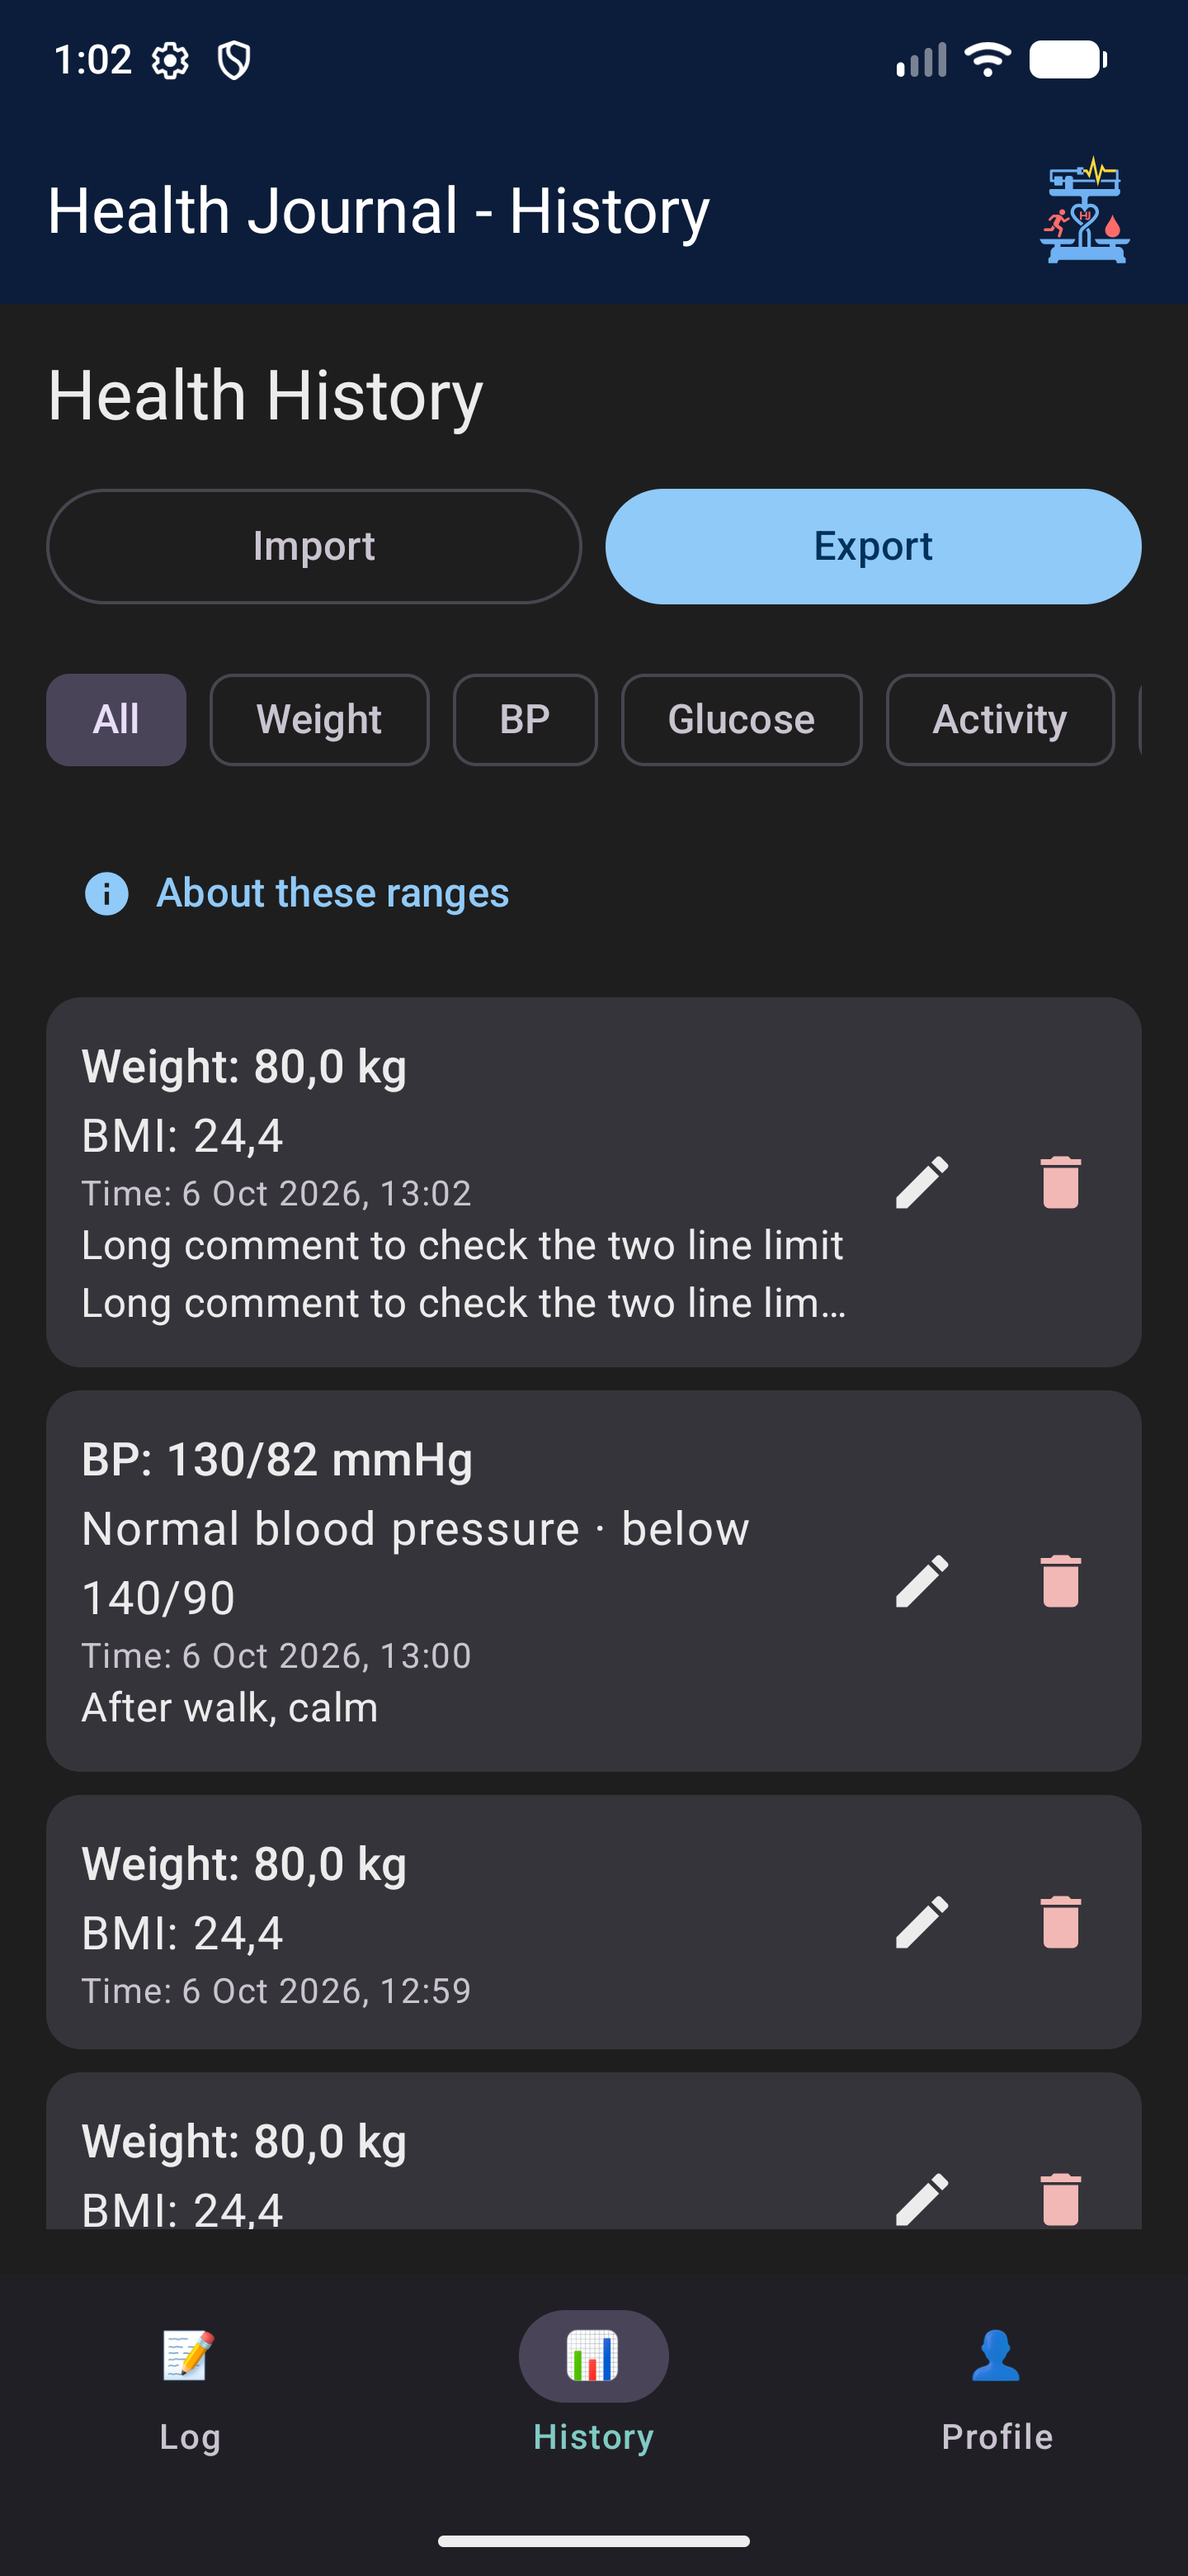
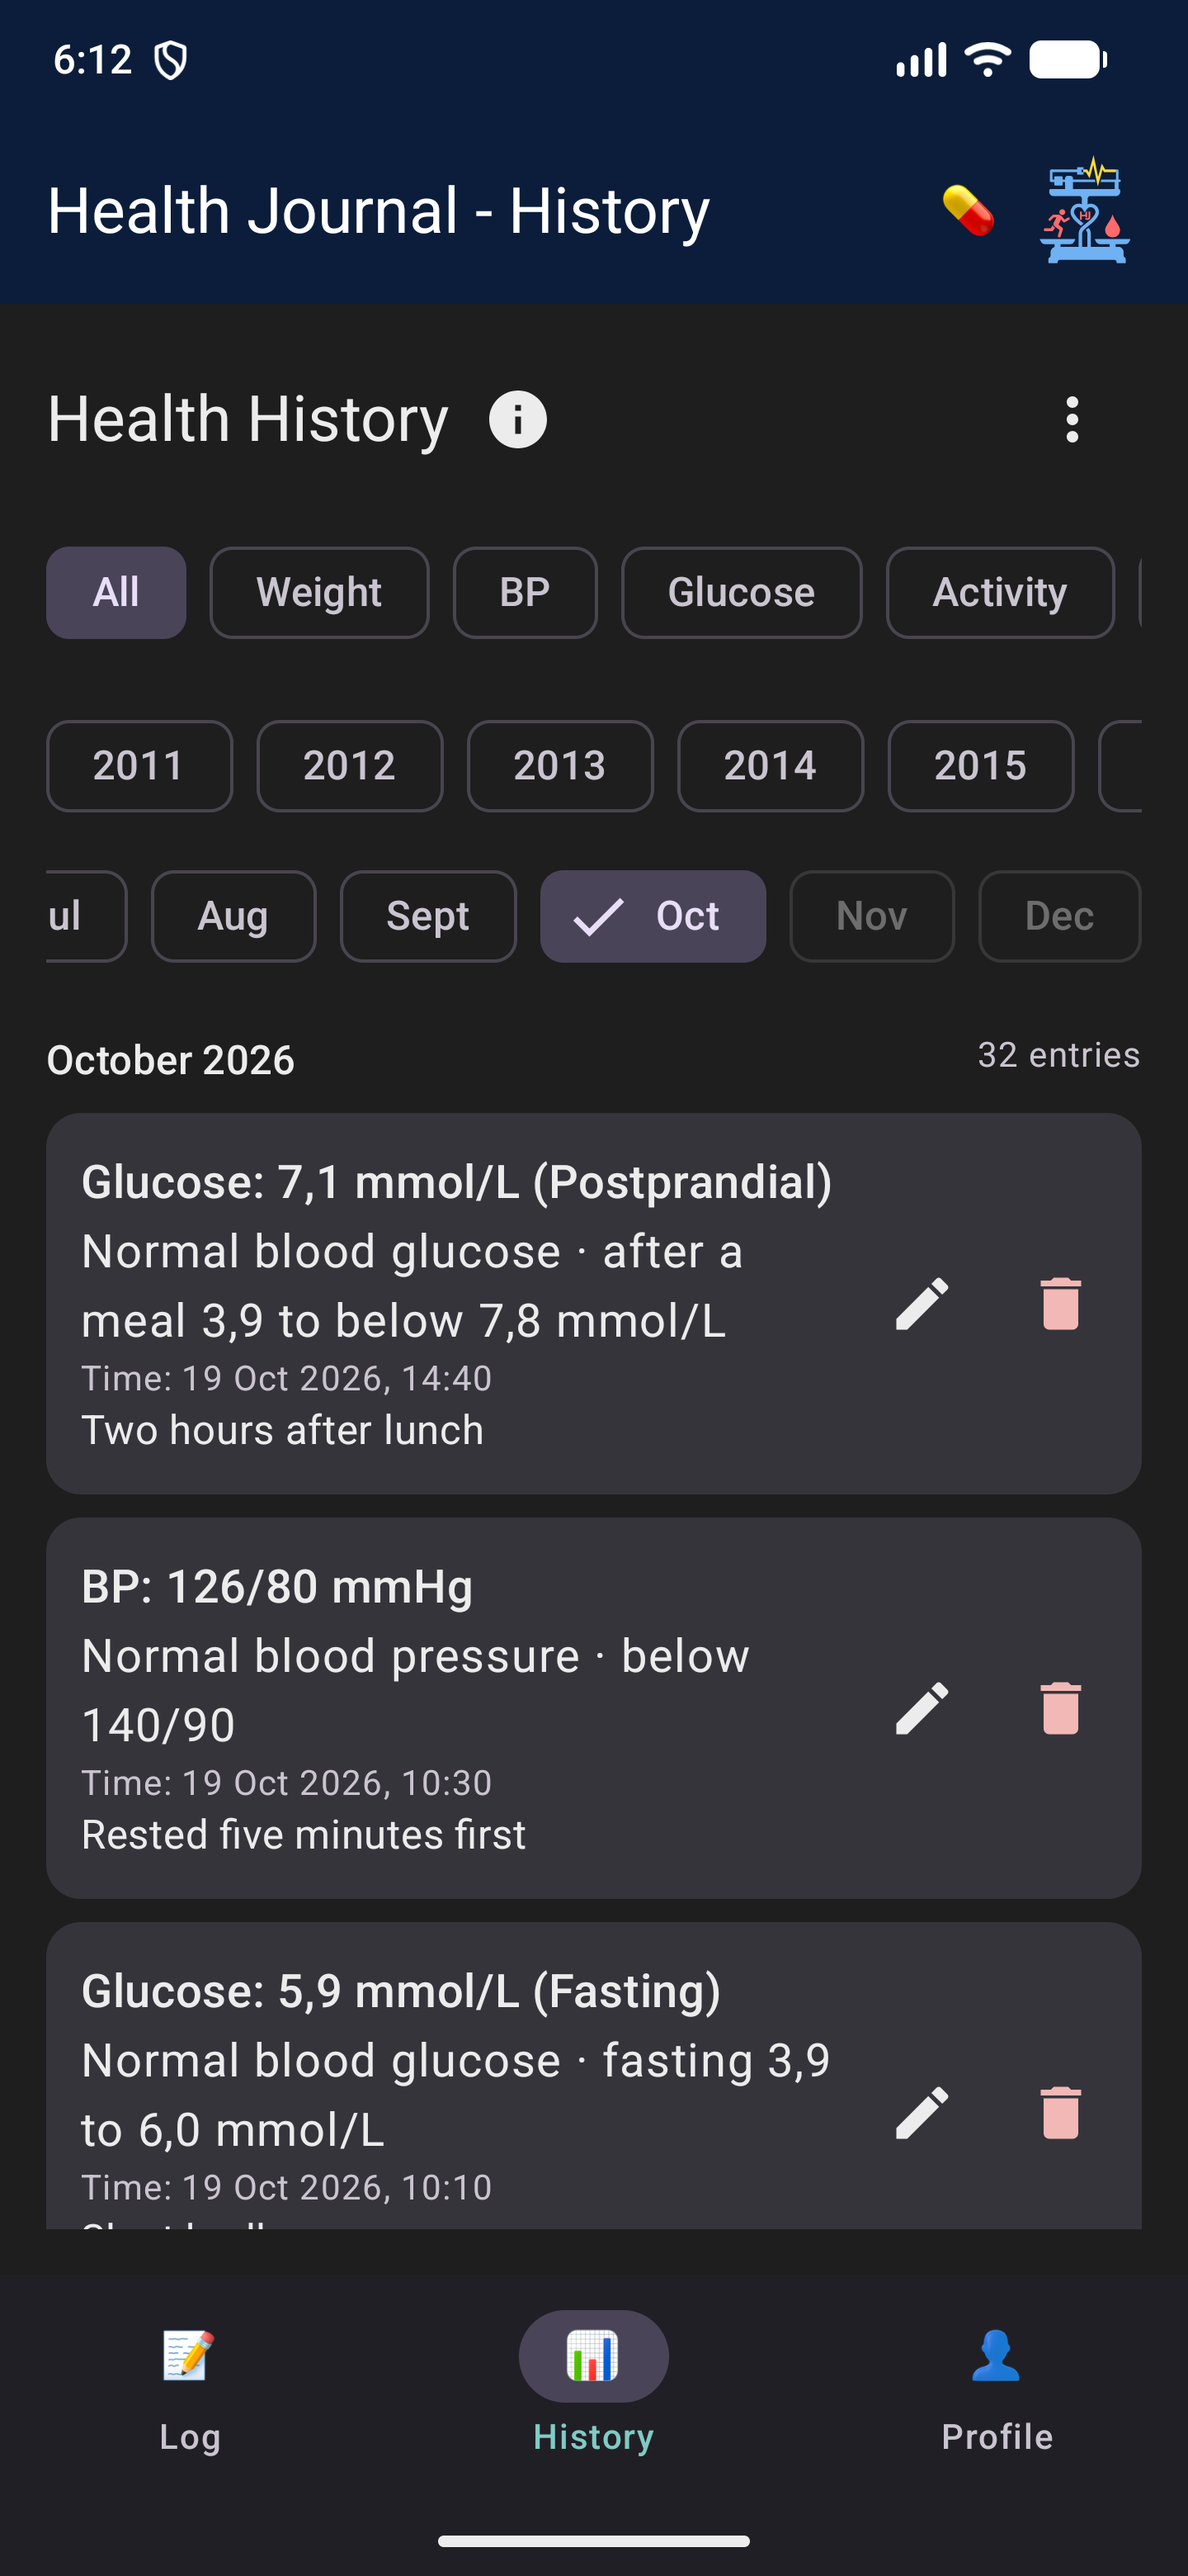
chore: release 1.5.7

diff --git a/README.md b/README.md
@@ -23,7 +23,7 @@ An offline-first, privacy-focused Android health logging application built with 
 
 You can download the ready-to-install Android APK directly from GitHub:
 
-👉 **[Download Latest APK (v1.5.6)](https://github.com/mannetje/health_journal/releases/latest)**  
+👉 **[Download Latest APK (v1.5.7)](https://github.com/mannetje/health_journal/releases/latest)**  
 See the [CHANGELOG](CHANGELOG.md) for what changed in each release.
 
 ---
@@ -34,21 +34,21 @@ See the [CHANGELOG](CHANGELOG.md) for what changed in each release.
 
 | Log | History | Profile |
 |---|---|---|
-| <img src="docs/screenshots/light-log.png" width="250" alt="Log screen with a neutral blood pressure range label, light theme"> | <img src="docs/screenshots/light-history.png" width="250" alt="History list with name and range labels, light theme"> | <img src="docs/screenshots/light-profile.png" width="250" alt="Profile screen, light theme"> |
+| <img src="docs/screenshots/light-log.png" width="250" alt="Log screen with a neutral blood pressure range label, light theme"> | <img src="docs/screenshots/light-history.png" width="250" alt="History list with name, range labels and comments, light theme"> | <img src="docs/screenshots/light-profile.png" width="250" alt="Profile screen, light theme"> |
 
 | Weight trend | Blood pressure trend | Glucose trend |
 |---|---|---|
-| <img src="docs/screenshots/light-weight.png" width="250" alt="Weight trend chart with moving average, light theme"> | <img src="docs/screenshots/light-blood-pressure.png" width="250" alt="Blood pressure trend with average label and distribution by band, light theme"> | <img src="docs/screenshots/light-glucose.png" width="250" alt="Glucose trend chart with time-in-range bars, light theme"> |
+| <img src="docs/screenshots/light-weight.png" width="250" alt="Weight trend chart with a dot per entry and moving average, light theme"> | <img src="docs/screenshots/light-blood-pressure.png" width="250" alt="Blood pressure trend with dots per reading, average label and distribution by band, light theme"> | <img src="docs/screenshots/light-glucose.png" width="250" alt="Glucose trend with fasting and post-meal lines and NHG limit lines, light theme"> |
 
 **Dark theme**
 
 | Log | History | Profile |
 |---|---|---|
-| <img src="docs/screenshots/dark-log.png" width="250" alt="Log screen with a neutral blood pressure range label, dark theme"> | <img src="docs/screenshots/dark-history.png" width="250" alt="History list with name and range labels, dark theme"> | <img src="docs/screenshots/dark-profile.png" width="250" alt="Profile screen, dark theme"> |
+| <img src="docs/screenshots/dark-log.png" width="250" alt="Log screen with a neutral blood pressure range label, dark theme"> | <img src="docs/screenshots/dark-history.png" width="250" alt="History list with name, range labels and comments, dark theme"> | <img src="docs/screenshots/dark-profile.png" width="250" alt="Profile screen, dark theme"> |
 
 | Weight trend | Blood pressure trend | Glucose trend |
 |---|---|---|
-| <img src="docs/screenshots/dark-weight.png" width="250" alt="Weight trend chart with moving average, dark theme"> | <img src="docs/screenshots/dark-blood-pressure.png" width="250" alt="Blood pressure trend with average label and distribution by band, dark theme"> | <img src="docs/screenshots/dark-glucose.png" width="250" alt="Glucose trend chart with time-in-range bars, dark theme"> |
+| <img src="docs/screenshots/dark-weight.png" width="250" alt="Weight trend chart with a dot per entry and moving average, dark theme"> | <img src="docs/screenshots/dark-blood-pressure.png" width="250" alt="Blood pressure trend with dots per reading, average label and distribution by band, dark theme"> | <img src="docs/screenshots/dark-glucose.png" width="250" alt="Glucose trend with fasting and post-meal lines and NHG limit lines, dark theme"> |
 
 > The screenshots use synthetic sample data. The top bar uses the brand navy with the Health Journal logo in both themes ([ADR 0011](docs/adr/0011-app-icon-and-adaptive-layers.md)).
 
@@ -84,6 +84,12 @@ See the [CHANGELOG](CHANGELOG.md) for what changed in each release.
 | <img src="docs/screenshots/light-bp-scatter.png" width="250" alt="Blood pressure graph with readings as dots on the three NHG bands, light theme"> | <img src="docs/screenshots/dark-bp-scatter.png" width="250" alt="Blood pressure graph with readings as dots on the three NHG bands, dark theme"> |
 | <img src="docs/screenshots/light-bp-statistics.png" width="250" alt="Reading steadiness and comparison with the previous period, light theme"> | <img src="docs/screenshots/dark-bp-statistics.png" width="250" alt="Reading steadiness and comparison with the previous period, dark theme"> |
 
+**Glucose graphs** (time in range per NHG category, by time of day, sample data)
+
+| Light | Dark |
+|-------|------|
+| <img src="docs/screenshots/light-glucose-statistics.png" width="250" alt="Glucose time in range per NHG category, fasting and after a meal, light theme"> | <img src="docs/screenshots/dark-glucose-statistics.png" width="250" alt="Glucose time in range per NHG category, fasting and after a meal, dark theme"> |
+
 **App icon** in the launcher, light and dark mode (navy adaptive icon, with a themed monochrome variant on Android 13+, see [ADR 0011](docs/adr/0011-app-icon-and-adaptive-layers.md)):
 
 <img src="docs/screenshots/launcher-icon.png" width="420" alt="Health Journal launcher icon in light and dark mode">
@@ -110,6 +116,7 @@ See the [CHANGELOG](CHANGELOG.md) for what changed in each release.
 - **Privacy by Design:** 100% offline-first. Your health data stays on your device.
 - **Light & Dark Theme:** Follows the device light/dark setting by default, and can be set to Light or Dark in Profile ([ADR 0017](docs/adr/0017-in-app-theme-choice.md)), with a brand-navy top bar and logo in both themes; range colors are a neutral blue-grey ramp (a darker step is a higher band, never a warning), with lighter variants in dark mode.
 - **Dutch/English Localization:** UI text follows the device's system language by default (English/Dutch), with a manual override selector (System/English/Dutch) on the Profile screen. Layouts are checked in Dutch so labels stay on one line ([ADR 0010](docs/adr/0010-responsive-dutch-ui-layout.md)); dialogs and pickers follow the app language too. A separate *Regional formats* setting (System / Netherlands / US) controls date and number formats independently of the language, so English text with Dutch dates works ([ADR 0013](docs/adr/0013-activity-base-context-for-app-language.md)). The Profile date of birth is chosen with a Material date picker that opens in text-entry mode.
+- **Glucose graphs:** the glucose graph shows fasting and after-meal readings as two lines with category-coloured points and the NHG limits as lines, plus time in range per NHG category, values by time of day, extremes, change per period, spread, the last 30 days against the 30 before and the largest rise between two readings. The weight chart shows a dot per entry.
 - **Graph view and weight statistics:** under Weight, Blood Pressure and Glucose an icon next to the History title switches between the entries and the graph. The weight graph adds the lowest and highest weight, the change per week, 15 days, month, three months, six months and year (kg or %), and bar charts of the change per month (pick a year) and per year, all from your full history. The blood pressure graph adds band-coloured points, a scatter chart on the NHG bands, how steady your readings are, and a comparison of systolic, diastolic, pulse, mean arterial pressure and pulse pressure with the previous period (English and Dutch). The waist graph adds NHG limit lines, extremes and change, the distance to the limits, the waist-to-height ratio and a waist against weight scatter.
 - **Health Trend Charts:** Weight, Blood Pressure, and Glucose History filters show a pannable/pinch-zoomable trend chart (7/30/90-day/all-time range, counted back from the newest entry so imported historical data still shows). The time axis follows the zoom level: years, months, weeks or days, with labels on calendar boundaries, a moving average for weight, NHG category gauges and distribution for blood pressure, and Time-in-Range breakdowns for glucose.
 - **Units:** data is always stored in metric (kg, cm, mmol/L, meters). What you see and type is a separate Profile setting: Metric or Imperial (lb, mi, ft/in) and mmol/L or mg/dL, defaulting from the region (US and UK imperial, mg/dL in the US, Germany, France and others). Every input shows its unit, and History, charts and statistics follow it ([ADR 0014](docs/adr/0014-units-presentation.md)). CSV files stay metric.
@@ -227,7 +234,7 @@ Adherence is plain counting: taken divided by due, rounded half up, shown with t
 ### Method 1: Download from GitHub Releases (Easiest)
 
 1. Open **[GitHub Releases](https://github.com/mannetje/health_journal/releases/latest)** on your Android device.
-2. Download `health-journal-v1.5.6-debug.apk`.
+2. Download `health-journal-v1.5.7-debug.apk`.
 3. Tap the downloaded file in your browser/file manager.
 4. When prompted with *"Install unknown apps"*, allow permission and tap **Install**.
 

diff --git a/CHANGELOG.md b/CHANGELOG.md
@@ -4,8 +4,16 @@ All notable changes to Health Journal. Format follows [Keep a Changelog](https:/
 
 ## [Unreleased]
 
+## [1.5.7] - 2026-10-19
+
 ### Added
+- **Glucose graphs** in the Glucose graph view: fasting and after-meal readings as two lines with points coloured by NHG category and lines at the NHG limits (low, fasting, after a meal), time in range per NHG category, average and range by time of day, lowest and highest reading, change since a month, three months, six months and a year, spread (average, standard deviation, range), the last 30 days against the 30 before, and the largest rise between two readings less than 3 hours apart. Figures only, no good or bad colour; in English and Dutch.
+- **Dots on the weight chart:** the raw weight line now shows a dot per entry, like the waist chart. Series with more than 60 points are drawn as a plain line, so dense histories do not turn into a thick band.
 - **Waist graphs** in a new Waist graph view (the Waist filter now has the graph icon too): a trend chart with the NHG limits as lines and band-coloured points (needs a sex in the profile), the lowest and highest waist, the change over a month, three months, six months and year in cm and percent, the distance to the NHG limits, the waist-to-height ratio over time with a 50 % rule-of-thumb line (needs a height in the profile), and a scatter chart of waist against weight with a trend line and one neutral sentence (needs 5 pairs within 3 days). Figures only, no good or bad colour; in English and Dutch.
+
+### Documentation
+- New developer page [Graphs](docs/dev/graphs.md): how the waist and glucose graphs were built, the building blocks and a checklist for a new graph.
+- All README screenshots retaken (light and dark) with sample data that includes comments, plus new glucose statistics shots.
 
 ## [1.5.6] - 2026-10-19
 
